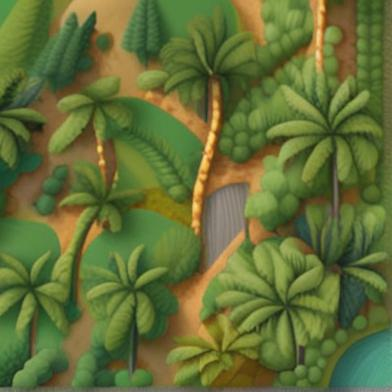
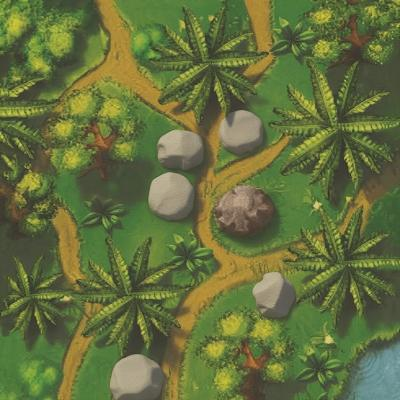
Новые клетки космический Шакал #2 (+1 squashed commits)
Squashed commits:

[2112d28] Новые клетки космический Шакал

diff --git a/Front/src/game/redux/gameSlice.ts b/Front/src/game/redux/gameSlice.ts
@@ -91,7 +91,7 @@ export const gameSlice = createSlice({
                 for (let col = 0; col < action.payload.width; col++) {
                     const change = action.payload.changes[j];
                     row.push({
-                        image: '/fields/' + change.tileType + '.png',
+                        image: '/fields_space/' + change.tileType + '.png',
                         rotate: change.rotate,
                         levels: change.levels.map(constructGameLevel),
                         availableMoves: [],
@@ -394,7 +394,7 @@ export const gameSlice = createSlice({
         applyChanges: (state, action: PayloadAction<CellDiffResponse[]>) => {
             action.payload.forEach((it) => {
                 const cell = state.fields[it.y][it.x];
-                const backgroundImageSrc = '/fields/' + it.tileType + '.png';
+                const backgroundImageSrc = '/fields_space/' + it.tileType + '.png';
                 if (cell.image != backgroundImageSrc) {
                     cell.image = backgroundImageSrc;
                     cell.rotate = it.rotate;

diff --git a/JackalWebHost2/Services/DrawService.cs b/JackalWebHost2/Services/DrawService.cs
@@ -234,7 +234,7 @@ public class DrawService : IDrawService
                 filename = "trap";
                 break;
             case TileType.Cannibal:
-                filename = "canibal";
+                filename = "cannibal";
                 break;
             case TileType.Lighthouse:
                 filename = "lighthouse";
